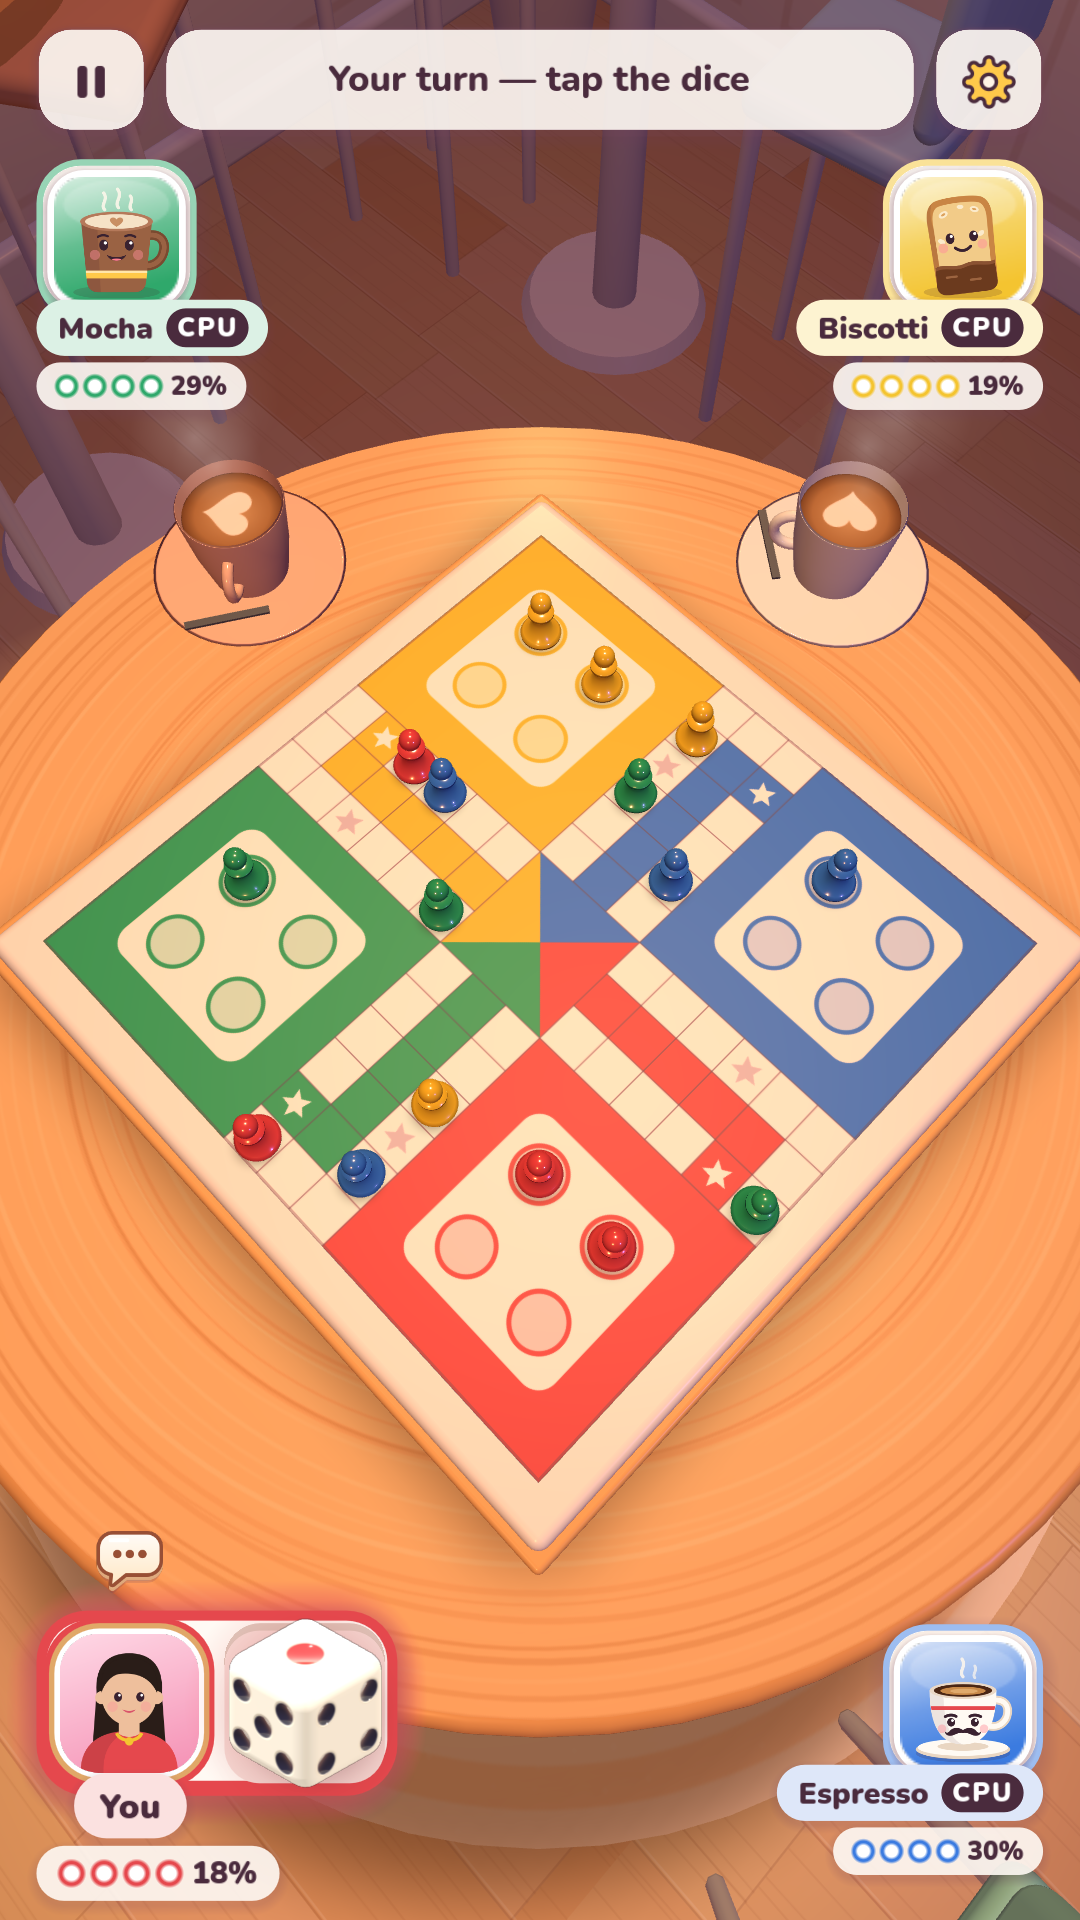
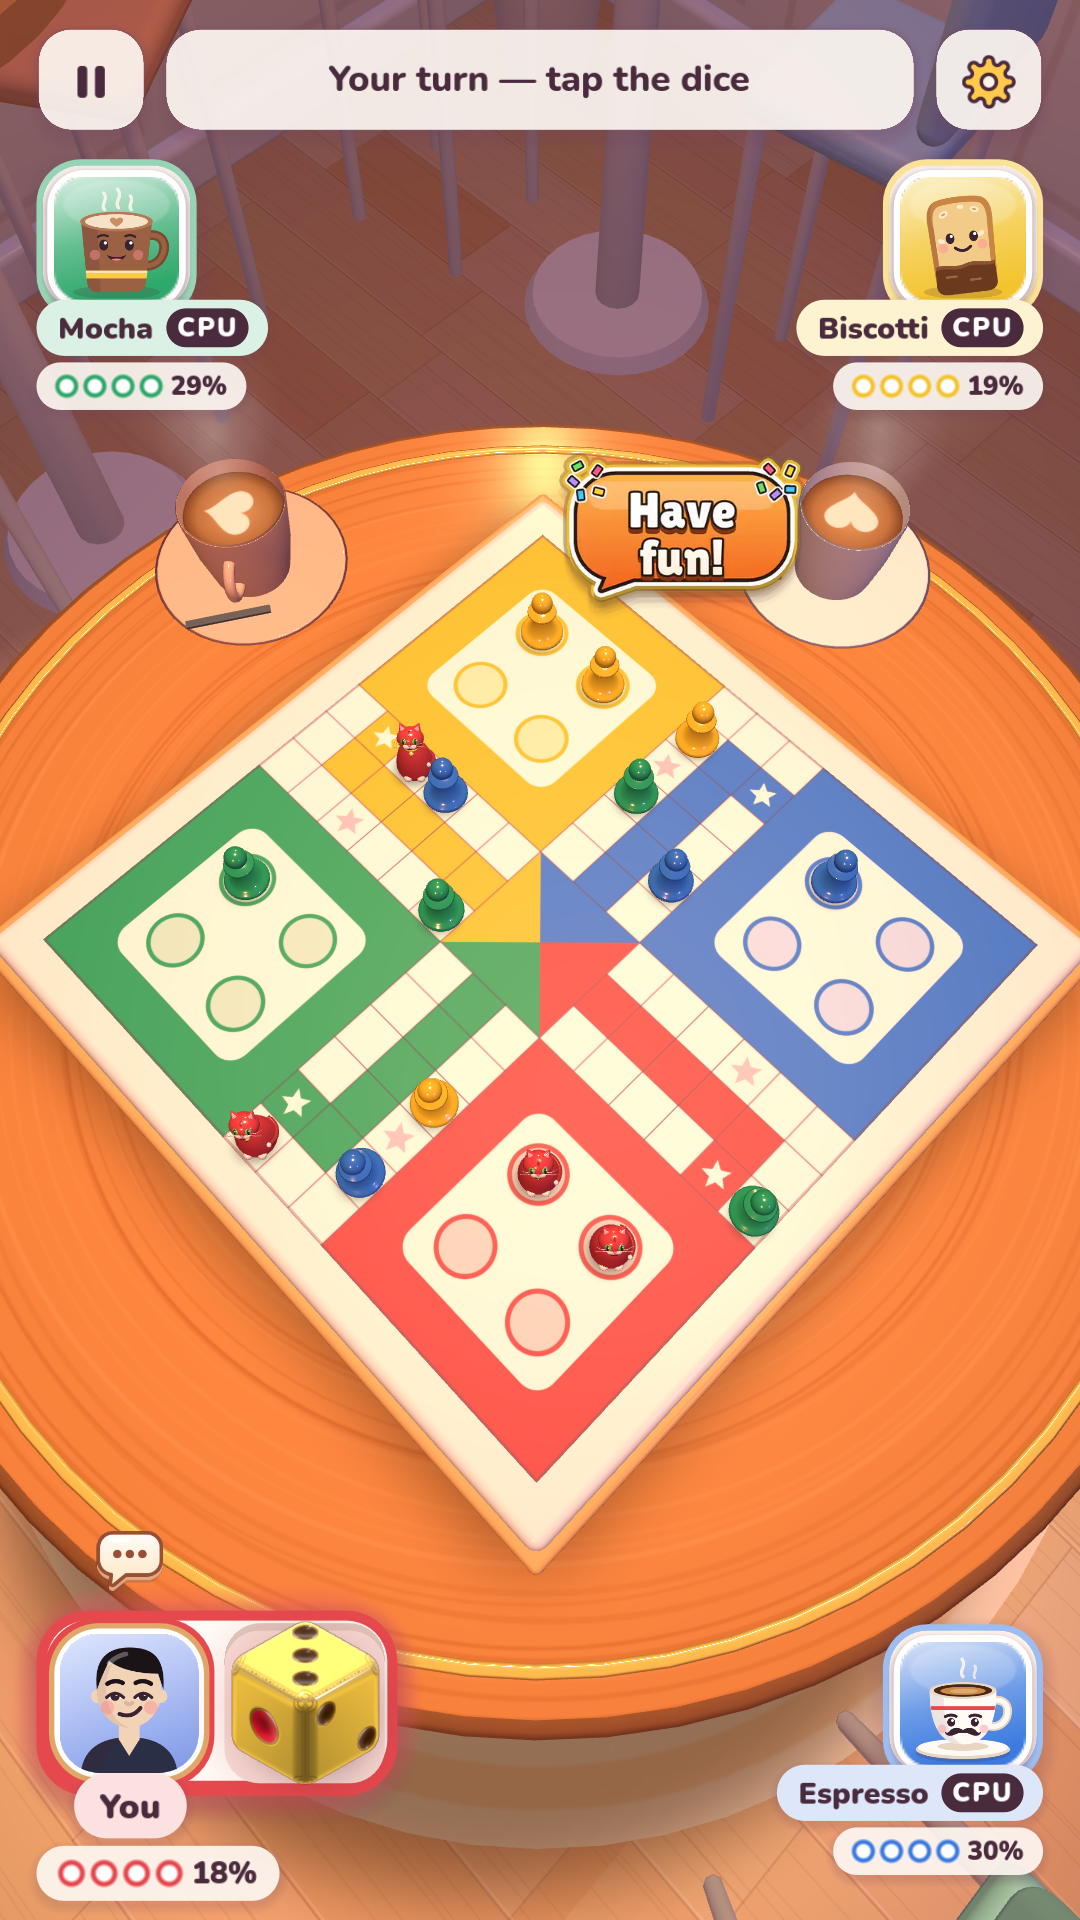
Store screenshots retaken in the current look: Lucky Draw replaces Daily reward, Shop on Pawns
Claude-Session: https://claude.ai/code/session_011qsgXmB4YreUBsGSYJQRhc

diff --git a/submission/play/listing.md b/submission/play/listing.md
@@ -54,4 +54,4 @@ Board, Ludo, Multiplayer, Casual, Dice
 ## Assets in this folder
 - icon-512.png (512x512, 32-bit PNG)
 - feature-1024x500.png (1024x500, no transparency)
-- screenshots/01..08 (1080x1920): home, Ludo 3D board, Snakes & Ladders, quick match tables, win result, emotes, daily reward, shop
+- screenshots/01..08 (1080x1920): home, Ludo 3D board, Snakes & Ladders, quick match tables, win result, emotes, Lucky Draw, shop (pawns)
